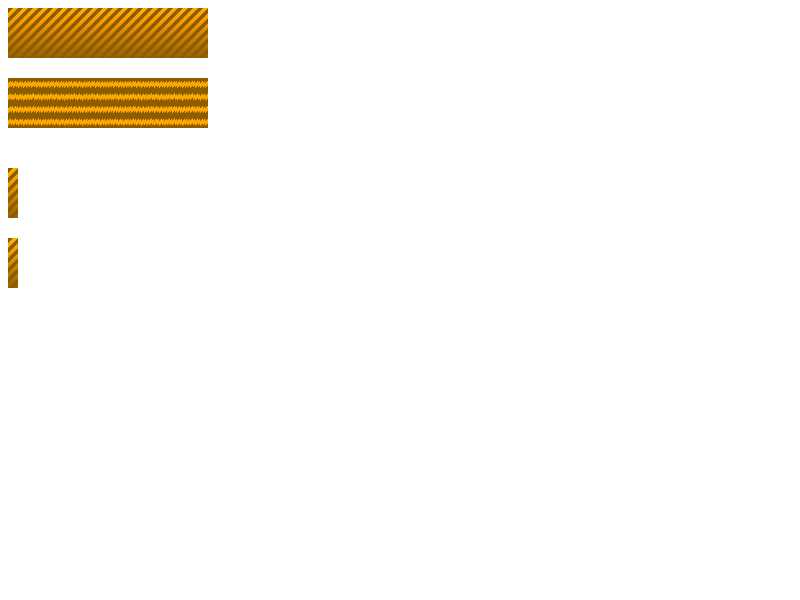
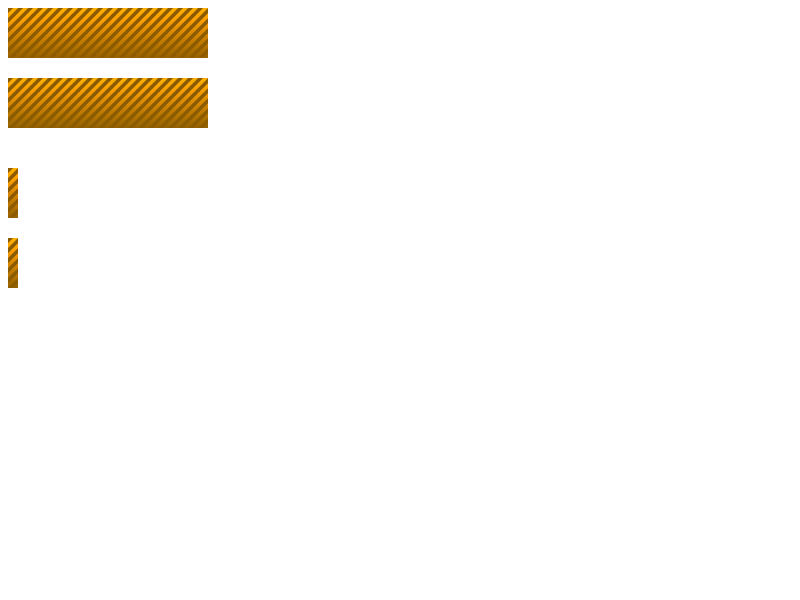
Move CrossfadeGeneratedImage to SkPicture-based tiling
CrossfadeGeneratedImage previously allocated a bitmap to do tiled
drawing, and then used ImageBuffer::drawPatterned to paint. This
is inefficient, so now we use SkPicture-based tiling.

That allows for the removal of a method on GraphicsContext and one
on ImageBuffer.

The test for tiled backgrounds with -webkit-cross-fade has been
rewritten to actually test the functionality. The previous test
was insufficient to provide coverage.

R=fmalita@chromium.org,pdr@chromium.org,christhtr@chromium.org
BUG=446265

Review URL: https://codereview.chromium.org/849303002

git-svn-id: svn://svn.chromium.org/blink/trunk@188676 bbb929c8-8fbe-4397-9dbb-9b2b20218538

Changed region(s): [[0.0, 0.12, 0.2812, 0.21]]

diff --git a/LayoutTests/css3/images/cross-fade-tiled.html b/LayoutTests/css3/images/cross-fade-tiled.html
@@ -3,17 +3,18 @@
 div
 {
 	width: 100px;
-	height: 100px;
-	margin: 10px;
+	height: 80px;
+	margin: 20px;
 
 	transform:translateZ(0);
-	border: 1px solid black;
 }
 </style>
-<!--The first cross-fade should appear as a 100% green square, 100x100px.-->
-<div style="background-image: -webkit-cross-fade(url(resources/red-10.png), url(resources/green-10.png), 100%); background-repeat: repeat;"></div>
-<!--The second cross-fade should appear as a 100% green square, 100x100px.-->
-<div style="background-image: -webkit-cross-fade(url(resources/green-100.png), url(resources/red-100.png), 0%);"></div>
-<!--The third cross-fade should appear as a blue-green square, 100x100px.-->
-<div style="background-image: -webkit-cross-fade(url(resources/blue-100.png), url(resources/green-100.png), 50%);"></div>
+<!--The 1st cross-fade should appear as a simple tartan, with the pattern clipped to fit.-->
+<div style="background-image: -webkit-cross-fade(url(resources/red-half-stripe.png), url(resources/green-half-stripe.png), 50%); background-repeat: repeat;"></div>
+<!--The 2nd cross-fade should appear as a simple tartan, not repeated.-->
+<div style="background-image: -webkit-cross-fade(url(resources/red-half-stripe.png), url(resources/green-half-stripe.png), 50%); background-repeat: no-repeat;"></div>
+<!--The 3rd cross-fade should appear as a simple tartan, with the pattern scaled to fit exactly in both dimensions.-->
+<div style="background-image: -webkit-cross-fade(url(resources/red-half-stripe.png), url(resources/green-half-stripe.png), 50%); background-repeat: round;"></div>
+<!--The 4th cross-fade should appear as a simple tartan, with the pattern spaced to fit exactly in both dimensions without scaling.-->
+<div style="background-image: -webkit-cross-fade(url(resources/red-half-stripe.png), url(resources/green-half-stripe.png), 50%); background-repeat: space;"></div>
 </html>

diff --git a/Source/platform/graphics/CrossfadeGeneratedImage.cpp b/Source/platform/graphics/CrossfadeGeneratedImage.cpp
@@ -29,6 +29,7 @@
 #include "platform/geometry/FloatRect.h"
 #include "platform/graphics/GraphicsContextStateSaver.h"
 #include "platform/graphics/ImageBuffer.h"
+#include "third_party/skia/include/core/SkPicture.h"
 
 namespace blink {
 
@@ -48,13 +49,6 @@ void CrossfadeGeneratedImage::drawCrossfade(GraphicsContext* context)
     IntSize fromImageSize = m_fromImage->size();
     IntSize toImageSize = m_toImage->size();
 
-    // Draw nothing if either of the images hasn't loaded yet.
-    if (m_fromImage == Image::nullImage() || m_toImage == Image::nullImage())
-        return;
-
-    GraphicsContextStateSaver stateSaver(*context);
-
-    context->clip(IntRect(IntPoint(), m_crossfadeSize));
     context->beginTransparencyLayer(1);
 
     // Draw the image we're fading away from.
@@ -84,6 +78,10 @@ void CrossfadeGeneratedImage::drawCrossfade(GraphicsContext* context)
 
 void CrossfadeGeneratedImage::draw(GraphicsContext* context, const FloatRect& dstRect, const FloatRect& srcRect, CompositeOperator compositeOp, WebBlendMode blendMode)
 {
+    // Draw nothing if either of the images hasn't loaded yet.
+    if (m_fromImage == Image::nullImage() || m_toImage == Image::nullImage())
+        return;
+
     GraphicsContextStateSaver stateSaver(*context);
     context->setCompositeOperation(compositeOp, blendMode);
     context->clip(dstRect);
@@ -97,16 +95,32 @@ void CrossfadeGeneratedImage::draw(GraphicsContext* context, const FloatRect& ds
 
 void CrossfadeGeneratedImage::drawPattern(GraphicsContext* context, const FloatRect& srcRect, const FloatSize& scale, const FloatPoint& phase, CompositeOperator compositeOp, const FloatRect& dstRect, WebBlendMode blendMode, const IntSize& repeatSpacing)
 {
-    OwnPtr<ImageBuffer> imageBuffer = context->createRasterBuffer(m_size);
-    if (!imageBuffer)
+    // Draw nothing if either of the images hasn't loaded yet.
+    if (m_fromImage == Image::nullImage() || m_toImage == Image::nullImage())
         return;
 
-    // Fill with the cross-faded image.
-    GraphicsContext* graphicsContext = imageBuffer->context();
-    drawCrossfade(graphicsContext);
+    FloatRect tileRect = srcRect;
+    tileRect.expand(repeatSpacing);
 
-    // Tile the image buffer into the context.
-    imageBuffer->drawPattern(context, srcRect, scale, phase, compositeOp, dstRect, blendMode, repeatSpacing);
+    GraphicsContext recordingContext(nullptr, nullptr);
+    recordingContext.beginRecording(tileRect);
+    drawCrossfade(&recordingContext);
+    RefPtr<const SkPicture> tilePicture = recordingContext.endRecording();
+
+    // FIXME: Create GeneratedIMage::drawPicturePattern, move the following code to it,
+    // and use it for GradientGeneratedImage too.
+    AffineTransform patternTransform;
+    patternTransform.translate(phase.x(), phase.y());
+    patternTransform.scale(scale.width(), scale.height());
+    patternTransform.translate(tileRect.x(), tileRect.y());
+
+    RefPtr<Pattern> picturePattern = Pattern::createPicturePattern(tilePicture);
+    picturePattern->setPatternSpaceTransform(patternTransform);
+
+    GraphicsContextStateSaver saver(*context);
+    context->setCompositeOperation(compositeOp, blendMode);
+    context->setFillPattern(picturePattern);
+    context->fillRect(dstRect);
 }
 
 } // namespace blink
